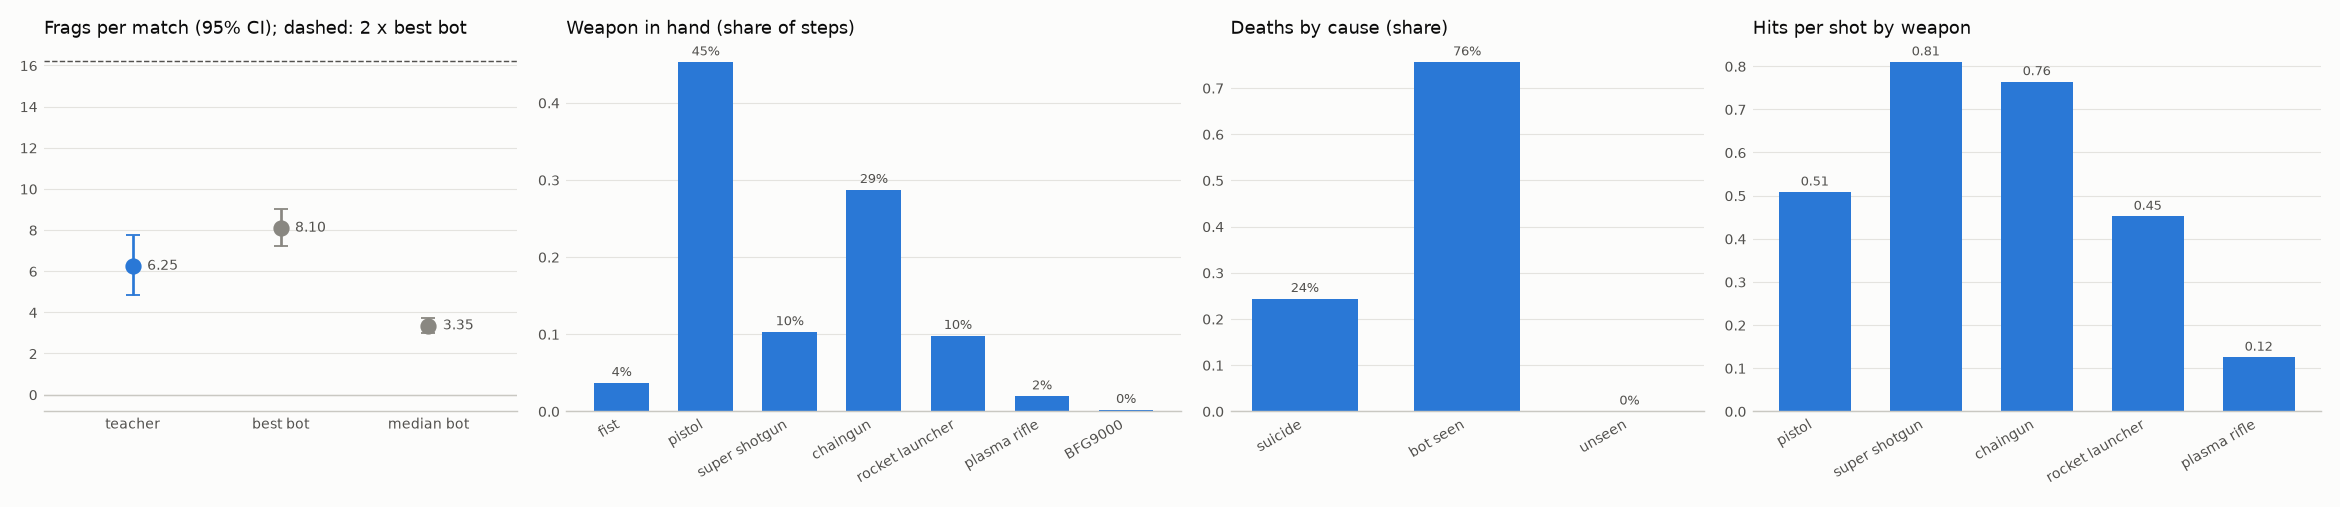
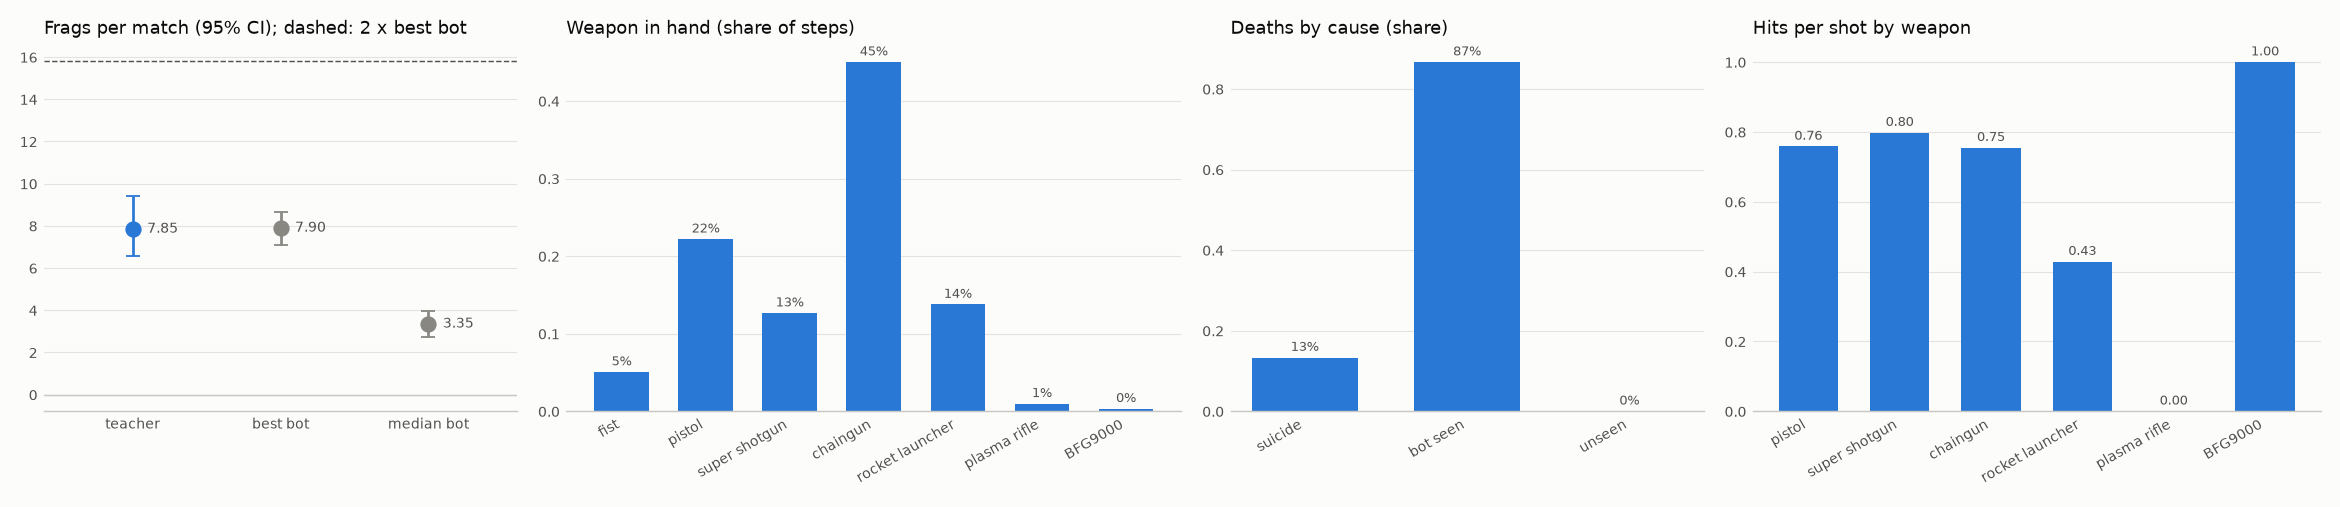
feat(dm): weapon_first on by default after the E1 cycle; teacher report

diff --git a/scripts/dm/dm_teacher_chain.py b/scripts/dm/dm_teacher_chain.py
@@ -1,0 +1,29 @@
+"""Runs teacher cycle candidates in order: an accepted one joins the base of the next; two rejected in a row stop.
+
+    python scripts/dm/dm_teacher_chain.py --base "" "name|settings|why" ...
+"""
+import argparse
+import subprocess
+import sys
+
+if __name__ == '__main__':
+    sys.stdout.reconfigure(encoding='utf-8')  # arrows in the rows; the Windows console is cp1251
+    ap = argparse.ArgumentParser()
+    ap.add_argument('--base', default='')
+    ap.add_argument('candidates', nargs='+')
+    a = ap.parse_args()
+    base, misses = a.base.split(), 0
+    for c in a.candidates:
+        name, sets, why = c.split('|')
+        cand = base + sets.split()
+        out = subprocess.run([sys.executable, 'scripts/dm/dm_teacher_cycle.py', '--name', name, '--base', ' '.join(base),
+                              '--cand', ' '.join(cand), '--why', why], capture_output=True, text=True, encoding='utf-8')
+        print(out.stdout.strip().split('\n')[-2:], flush=True)
+        if 'ACCEPTED' in out.stdout:
+            base, misses = cand, 0
+        else:
+            misses += 1
+            if misses == 2:
+                print('stop rule: two rejected in a row')
+                break
+    print('accepted teacher:', ' '.join(base) or '(defaults)')

diff --git a/src/doomagent/dm/config.py b/src/doomagent/dm/config.py
@@ -37,7 +37,7 @@ class DMCfg:
     hitscan_tol: float = 0.0   # degrees: hitscan weapons also fire this far off (their spread); 0: off
     track_ahead: bool = False  # turn to where the target will be after this step, not where it is
     barrel_check: bool = False  # no shot with a barrel in the line of fire closer than BARREL_R
-    weapon_first: float = 0.0  # with only weapons below gear_rank: fight bots closer than this, else gear up; 0: off
+    weapon_first: float = 256.0  # with only weapons below gear_rank: fight bots closer than this, else gear up; 0: off (E1 cycle: +1.40 [+0.25, +2.60] on 40 fresh seeds)
     armor_below: float = 0.0   # go for armor below this much armor; 0: off
     retreat_health: float = 0.0  # leave a fight for a medikit below this health; 0: off
     seg_len: int = 32          # M1 training windows, steps

diff --git a/tests/dm/test_dm_teacher.py b/tests/dm/test_dm_teacher.py
@@ -244,7 +244,7 @@ def test_barrel_check_holds_fire():
 def test_weapon_first_skips_far_fights_with_a_pistol():
     gun = dict(weapon=2, weapon_ammo=50.0, ammo=50.0, owned=(0, 1, 1, 0, 0, 0, 0, 0), slot_ammo=(0, 0, 50, 0, 50, 0, 0, 0),
                objects=[MapObject(1, 'Chaingun', 600.0, 900.0, 0.0)])
-    for cfg, dist, mode in ((DM, 600, 'combat'), (replace(DM, weapon_first=256.0), 600, 'gear'),
+    for cfg, dist, mode in ((replace(DM, weapon_first=0.0), 600, 'combat'), (replace(DM, weapon_first=256.0), 600, 'gear'),
                             (replace(DM, weapon_first=256.0), 200, 'combat')):
         t = DMTeacher(cfg)
         t(obs(first=True), priv(labels=[bot(1, 0.0, dist)], **gun))

diff --git a/research_log_dm.md b/research_log_dm.md
@@ -95,3 +95,14 @@
   - На 20 матчах парный интервал около ±1.8 фрага: свежих seed взято 40 (решение в ledger); прирост на val у первой правки оказался шумом.
 - Решение: значения по умолчанию не меняются (правило 8); стоп E1, решение руководителя.
 - Открытые вопросы: учитель почти всё время в бою и с пистолетом: бой важнее похода за оружием, поэтому он редко добирается до сильного оружия — самая крупная возможная правка («сначала оружие»), а также броня, патроны к пулемёту, долгая погоня. Нужно решение: продолжать цикл с крупными правками поведения, менять порог Gate A v2 или менять соперников.
+
+## 2026-10-23, E1: крупные правки поведения учителя
+- Гипотеза: учитель проигрывает из-за поведения, а не прицела: бьётся с пистолетом вместо похода за оружием, мало брони, бросает погоню.
+- Команда: `scripts/dm/dm_teacher_chain.py` (кандидаты по очереди, принятый входит в базу следующего, стоп после двух отклонённых подряд), `scripts/dm/dm_teacher_report.py --diag runs/dm/cycle/ac3b6a5fc1_val20.json`.
+- Результат (`reports/dm/e1_teacher_cycle.md`, `reports/dm/e1_teacher.md`):
+  - «Сначала оружие» (с пистолетом не биться с ботами дальше 256, идти за оружием): fresh **+1.40 [+0.25, +2.60]**, **принято**, стало значением по умолчанию.
+  - Броня ниже 50: fresh +0.28 [−1.38, +1.77], не принято (K/D вырос до 4.37: меньше смертей, но не больше фрагов).
+  - Погоня 3 с вместо 1 с: fresh −0.50 [−2.10, +0.95], не принято. Правило остановки сработало, отход при малом здоровье не проверялся.
+  - Принятый учитель на 20 val: фраги **7.85**, лучший бот **7.90 [7.10, 8.65]**, K/D по сумме **3.02** (условие Gate A v2 выполнено), первое место в **55 %** матчей; пистолет 22 % шагов (было 45 %), пулемёт 45 %, ракетомёт 14 %.
+- Решение: Gate A v2 по-прежнему не пройден (первое место 55 % < 90 %, фраги 7.85 < 2 × 7.90); значения кроме принятой правки не меняются; стоп, решение руководителя.
+- Открытые вопросы: фраги учителя сравнялись с лучшим ботом; до 2 × лучшего бота нужен ещё двукратный рост.

diff --git a/reports/dm/e1_teacher.md b/reports/dm/e1_teacher.md
@@ -1,40 +1,40 @@
 # E1: cheater teacher on the val matches (MAP02)
 
-Command: `python scripts/dm/dm_teacher_report.py --diag runs/dm/cycle/d41d8cd98f_val20.json`
+Command: `python scripts/dm/dm_teacher_report.py --diag runs/dm/cycle/ac3b6a5fc1_val20.json`
 
 Matches: 20 (base graphics, VAL_SEEDS)
 
 | player | frags [95% CI] | deaths | K/D (mean, total) | suicides | hits per shot | items | path | stuck | sees a bot | median bot's frags [95% CI] |
 | --- | --- | --- | --- | --- | --- | --- | --- | --- | --- | --- |
-| teacher | 6.25 [4.85, 7.75] | 2.4 | 3.26, 2.60 | 0.5 | 0.55 | 5.0 | 19076 | 0.1% | 67% | 3.35 [3.00, 3.70] |
+| teacher | 7.85 [6.55, 9.40] | 2.6 | 4.15, 3.02 | 0.3 | 0.61 | 5.8 | 19561 | 0.1% | 64% | 3.35 [2.75, 3.95] |
 | random | -0.20 [-0.40, -0.05] | 1.6 | -0.11, -0.12 | 0.2 | 0.04 | 2.9 | 13139 | 5.2% | 16% | 3.90 [3.40, 4.45] |
 
-Best bot of the match: 8.10 [7.20, 9.00] frags; first of 8 in 25 % of matches.
+Best bot of the match: 7.90 [7.10, 8.65] frags; first of 8 in 55 % of matches.
 
 ## Gate A v2
 
-- FAIL: K/D over all matches >= 3: 2.6041666666666665
-- FAIL: first of 8 in >= 90 % of matches: 0.25
-- FAIL: frags >= 2 x the best bot's frags: (6.25, 8.1)
+- PASS: K/D over all matches >= 3: 3.019230769230769
+- FAIL: first of 8 in >= 90 % of matches: 0.55
+- FAIL: frags >= 2 x the best bot's frags: (7.85, 7.9)
 
 ## Teacher decisions (share of steps)
 
-combat 66%, chase 7%, gear 14%, items 1%, patrol 12%
+combat 61%, chase 11%, gear 11%, items 3%, patrol 15%
 
 ## Weapon in hand (share of steps)
 
-fist 4%, pistol 45%, super shotgun 10%, chaingun 29%, rocket launcher 10%, plasma rifle 2%, BFG9000 0%
+fist 5%, pistol 22%, super shotgun 13%, chaingun 45%, rocket launcher 14%, plasma rifle 1%, BFG9000 0%
 
-## Diagnostics (runs/dm/cycle/d41d8cd98f_val20.json)
+## Diagnostics (runs/dm/cycle/ac3b6a5fc1_val20.json)
 
-Deaths by cause: suicide 24%, bot seen 76%, unseen 0%
+Deaths by cause: suicide 13%, bot seen 87%, unseen 0%
 
-Hits per shot by weapon: pistol 0.51 (762 shots), super shotgun 0.81 (84 shots), chaingun 0.76 (1435 shots), rocket launcher 0.45 (62 shots), plasma rifle 0.12 (24 shots)
+Hits per shot by weapon: pistol 0.76 (207 shots), super shotgun 0.80 (104 shots), chaingun 0.75 (2304 shots), rocket launcher 0.43 (91 shots), plasma rifle 0.00 (14 shots), BFG9000 1.00 (3 shots)
 
-Bot on screen, by the reason not to fire: shoot 18%, switching 3%, not_aimed 69%, unsafe 0%, no_ammo 0%, reloading 9%, no_combat 1%
+Bot on screen, by the reason not to fire: shoot 17%, switching 3%, not_aimed 66%, unsafe 0%, no_ammo 0%, reloading 8%, no_combat 6%
 
-Teacher frags per match: 5 3 9 4 9 3 5 7 7 7 9 10 2 2 11 3 4 2 12 11
+Teacher frags per match: 5 5 6 4 7 3 10 9 8 15 9 8 5 13 5 5 15 7 9 9
 
-Best bot per match: 7 7 10 11 10 6 7 10 10 12 9 5 5 7 6 8 10 8 6 8
+Best bot per match: 6 4 8 6 11 8 10 8 7 8 9 4 8 9 7 9 11 8 9 8
 
 ![teacher](e1_teacher.png)

diff --git a/reports/dm/e1_teacher_cycle.md b/reports/dm/e1_teacher_cycle.md
@@ -7,3 +7,6 @@ Each row: one change against the accepted teacher; 20 val matches, then 20 fresh
 | hitscan_tol_3 | `hitscan_tol=3.0` | not aimed 69% of bot-on-screen steps; bullets spread wider than ±1° | 6.25 → 8.20 | 6.85 → 6.53 | -0.33 [-1.68, +1.10] | 8.45 | 3.07 | 35% | no |
 | track_ahead | `track_ahead=True` | bots run ~2° a step sideways; the turn ends behind them | 6.25 → 6.70 | 6.85 → 6.70 | -0.15 [-2.08, +1.57] | 8.28 | 3.12 | 32% | no |
 | barrel_check | `barrel_check=True` | 24% of deaths are suicides, also with the super shotgun: barrels next to the player | 6.25 → 6.60 | 6.85 → 6.83 | -0.03 [-0.17, +0.10] | 8.43 | 3.25 | 35% | no |
+| weapon_first_256 | `weapon_first=256.0` | pistol 45% of steps: fights with a pistol keep it from gearing up | 6.25 → 7.85 | 6.85 → 8.25 | +1.40 [+0.25, +2.60] | 8.47 | 2.70 | 48% | yes |
+| armor_50 | `weapon_first=256.0 armor_below=50.0` | 76% of deaths in fights; armor halves the damage | 7.85 → 7.50 | 8.25 → 8.53 | +0.28 [-1.38, +1.77] | 8.65 | 4.37 | 52% | no |
+| chase_3 | `weapon_first=256.0 chase_s=3.0` | bots get away; a 1 s chase loses them | 7.85 → 8.30 | 8.25 → 7.75 | -0.50 [-2.10, +0.95] | 7.65 | 2.42 | 52% | no |
